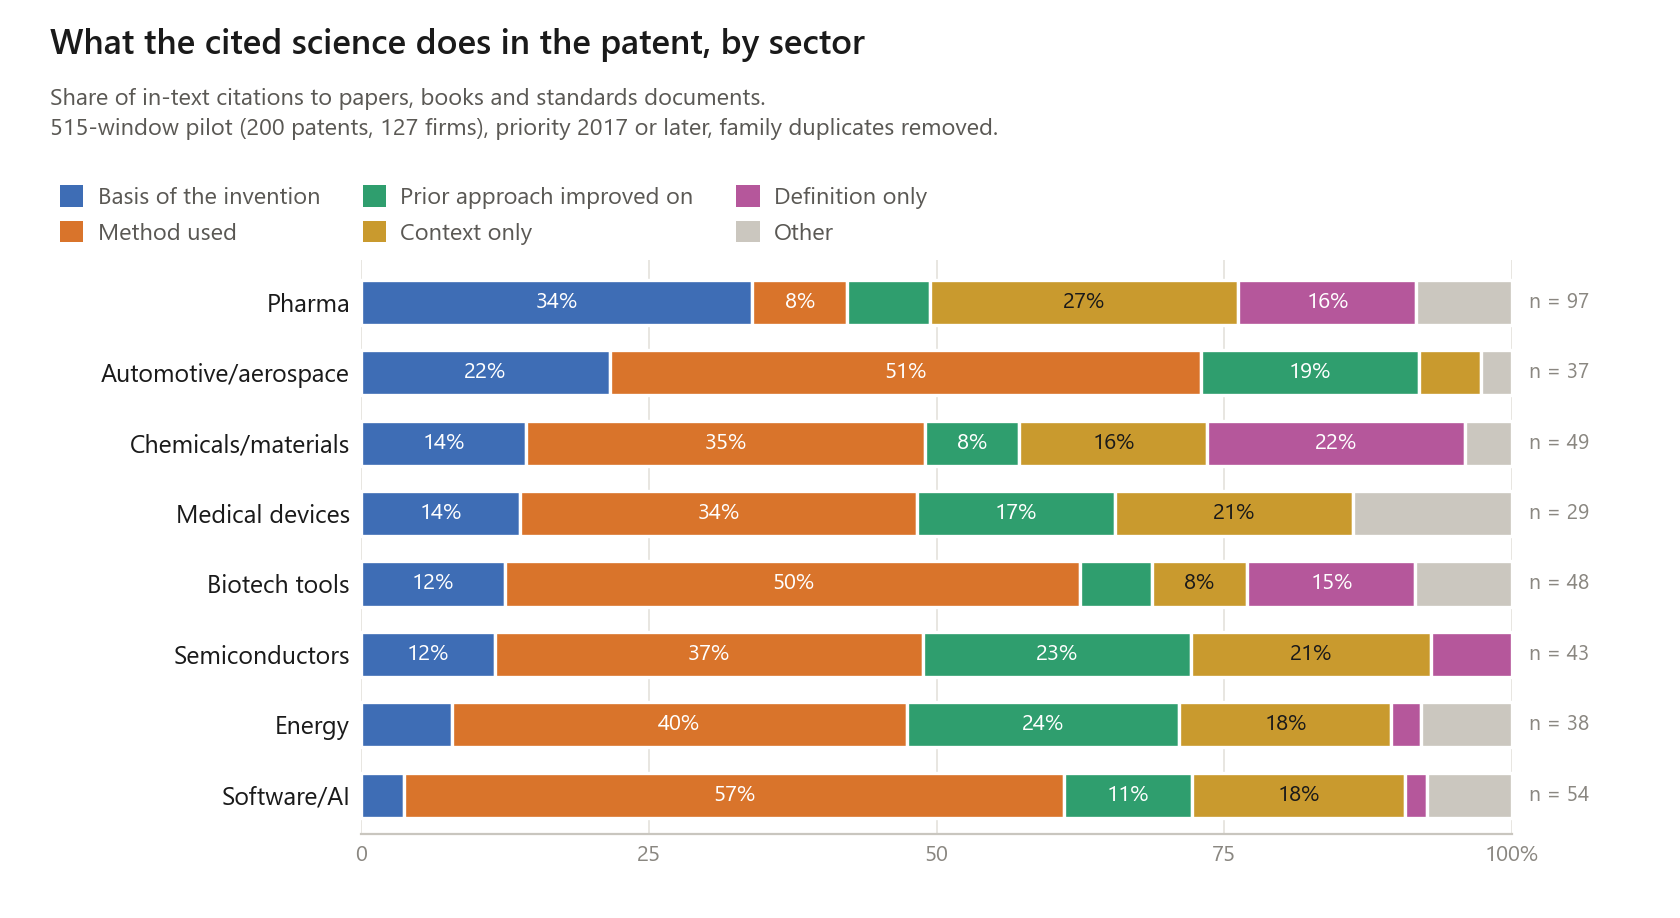
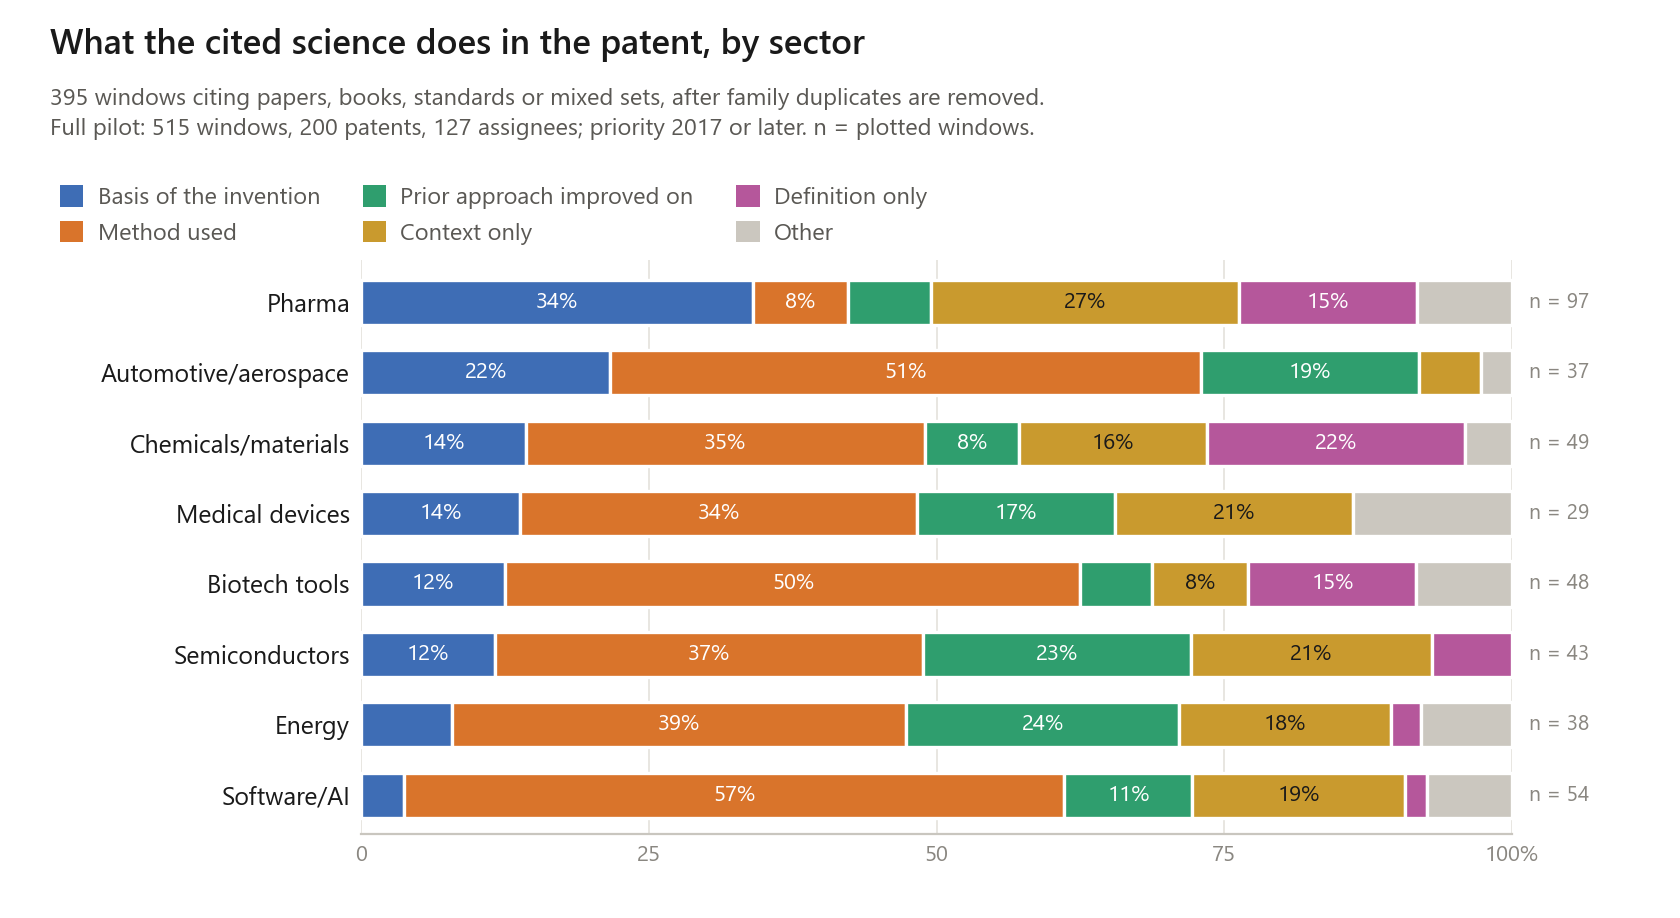
Clarify pilot evidence and correct figure denominators and rounding

diff --git a/scripts/make_figures.py b/scripts/make_figures.py
@@ -5,7 +5,7 @@
 Everything is read from the labeled files and the profiles_*.csv written by aggregate.py, so the figures
 regenerate with the pilots (scripts/rebuild_pilot.sh). One template for all five: horizontal bars in labeled
 groups, counts at the right, title and subtitle at the top left.
-  function_overall.png    what the cited paper does: 163 paper citations in the pilot, all eight labels
+  function_overall.png    what the cited paper does: 316 paper-citing windows in the pilot, all eight labels
   function_by_sector.png  shares by sector, 515-window pilot
   function_by_decade.png  shares by sector and decade, nine firms (pilot/decades/)
   function_by_firm.png    shares by firm, decade sample pooled over decades
@@ -20,7 +20,7 @@ from matplotlib.transforms import blended_transform_factory  # noqa: E402
 
 ROOT = pathlib.Path(__file__).resolve().parent.parent
 sys.path.insert(0, str(ROOT))
-from aggregate import SCIENCE_TYPES, DISPLAY, FUNCS, load_sector_map  # noqa: E402
+from aggregate import SCIENCE_TYPES, DISPLAY, FUNCS, key_of, load_sector_map  # noqa: E402
 OUT = ROOT / "figures"; OUT.mkdir(exist_ok=True)
 PILOT = ROOT / "pilot" / "citation_windows_labeled.jsonl"
 DECADES = ROOT / "pilot" / "decades" / "citation_windows_labeled.jsonl"
@@ -32,7 +32,7 @@ PAL = {"foundation": "#3E6DB5", "method_or_tool": "#D9742B", "prior_art_distingu
        "background_context": "#C99A2E", "definitional_boilerplate": "#B5579B", "other": "#CBC7BF"}
 MAIN = ["foundation", "method_or_tool", "prior_art_distinguished", "background_context", "definitional_boilerplate"]
 CATS = [(f, DISPLAY[f], PAL[f]) for f in MAIN] + [("other", "Other", PAL["other"])]
-DOC_CATS = [("science", "Paper, book or standards document", PAL["foundation"]), ("patent", "Patent", "#8E8A83"),
+DOC_CATS = [("science", "Paper, book, standards or mixed", PAL["foundation"]), ("patent", "Patent", "#8E8A83"),
             ("other", "Other", "#DAD6CF")]
 INK, INK2, MUTED, GRID, BASE = "#1a1a1a", "#5a5854", "#8a8781", "#e8e6e1", "#c9c6bf"
 W = 8.4  # figure width, inches
@@ -49,12 +49,20 @@ def science_rows(path):
 
 
 def read_csv(path):
+    """Keep profile order and metadata; plot exact counts to avoid rounding rounded CSV shares."""
     with open(path, newline="", encoding="utf-8") as f:
         rows = list(csv.DictReader(f))
+    by = path.stem.removeprefix("profiles_")
+    counts = collections.defaultdict(collections.Counter)
+    sector_map = load_sector_map()
+    for row in science_rows(path.parent / "citation_windows_labeled.jsonl"):
+        counts[key_of(row, by, sector_map)][row["function"]] += 1
     out = []
     for r in rows:
-        d = {f: float(r[f"share_{f}"]) for f in MAIN}
-        d["other"] = max(0.0, 1.0 - sum(d.values())); d["n"] = int(float(r["n_windows"])); d["key"] = r
+        c = counts[r[by]]
+        if sum(c.values()) != int(r["n_windows"]):
+            raise ValueError(f"{path}: {r[by]} count differs from the labeled windows; rebuild profiles first")
+        d = shares(c); d["key"] = r
         out.append(d)
     return out
 
@@ -141,8 +149,8 @@ def figure_overall():
     c = collections.Counter(r["function"] for r in rows); n = len(rows)
     groups = [(None, [(DISPLAY[f], {"f": f, "v": c[f] / n, "c": c[f]}) for f in FUNCS])]
     fig, ax = canvas(groups, "What the cited paper does in the patent",
-                     f"{n} in-text citations to papers in 200 patents from 127 firms, priority 2017 or later, family duplicates removed.\n"
-                     "The last three labels are not uses of science; the other figures fold them into \"Other\".")
+                     f"{n} paper-citing windows after deduplication; full pilot: 200 patents, 127 assignees, priority 2017 or later.\n"
+                     "Other in the stacked charts combines materials/data sources, reference-list entries and own earlier patents.")
     for y, (_, r) in enumerate(groups[0][1]):
         ax.barh(y, r["v"], height=0.64, color=PAL.get(r["f"], PAL["other"]))
         ax.text(r["v"] + 0.007, y, f"{r['v']:.0%}   {r['c']} of {n}", va="center", ha="left", fontsize=8, color=INK2)
@@ -156,8 +164,8 @@ def figure_sector():
     rows.sort(key=lambda r: -r["foundation"])
     groups = [(None, [(cap(r["key"]["sector"]), r) for r in rows])]
     fig, ax = canvas(groups, "What the cited science does in the patent, by sector",
-                     "Share of in-text citations to papers, books and standards documents.\n"
-                     "515-window pilot (200 patents, 127 firms), priority 2017 or later, family duplicates removed.", legend=CATS)
+                     "395 windows citing papers, books, standards or mixed sets, after family duplicates are removed.\n"
+                     "Full pilot: 515 windows, 200 patents, 127 assignees; priority 2017 or later. n = plotted windows.", legend=CATS)
     draw_rows(ax, groups, CATS)
     fig.savefig(OUT / "function_by_sector.png", dpi=200); plt.close(fig)
 
@@ -168,7 +176,7 @@ def figure_decade():
     groups = [(h, [(d, rows[f"{s} {d}"]) for d in ("1980s", "1990s", "2000s", "2010s") if f"{s} {d}" in rows]) for h, s in sectors]
     fig, ax = canvas(groups, "The same shares by decade: nine firms, 1980s to 2010s",
                      "Pfizer, Eli Lilly, Bristol-Myers  |  Dow Chemical, Du Pont, Air Products  |  IBM, General Electric, Texas Instruments.\n"
-                     "Two patents per firm and decade with priority and grant in the decade (electronics: four, from two draws).\n"
+                     "Up to two patents per firm and decade with priority and grant in the decade (electronics: up to four, two draws).\n"
                      "n = science-citing windows, family duplicates removed.", legend=CATS, sub_lines=3)
     draw_rows(ax, groups, CATS)
     fig.savefig(OUT / "function_by_decade.png", dpi=200); plt.close(fig)

diff --git a/README.md b/README.md
@@ -29,7 +29,7 @@ One question per citation: **what does the invention take from the cited paper?*
 flowchart TD
     W["Citation window"] --> T{"What is cited?"}
     T -->|"a patent, or the applicant's own application"| X["Not science use<br/>kept, excluded from profiles"]
-    T -->|"a paper, book or standards document"| F{"What does the invention take from it?"}
+    T -->|"a paper, book, standards document or mixed set"| F{"What does the invention take from it?"}
     F -->|"the finding it rests on"| A["Basis of the invention"]
     F -->|"a technique it uses"| B["Method used"]
     F -->|"an earlier approach it improves on"| C["Prior approach improved on"]
@@ -64,14 +64,17 @@ rests on, context alone, and prior approaches improved on each take between one 
 
 ![Function by sector](figures/function_by_sector.png)
 
-Industries use science for different things. Pharma cites papers for the biology the invention rests on and for
+In this purposive pilot, sectors differ in the stated roles of cited science. Pharma cites science for the biology the invention rests on and for
 disease context; software/AI, biotech tools and automotive firms for methods; semiconductors and energy have the
-largest shares of prior approaches improved on; chemicals and biotech tools carry the most definition-only citations.
+largest shares of prior approaches improved on; chemicals have the highest definition-only share, followed by pharma and biotech tools.
+These sector profiles use 395 deduplicated science-citing windows (papers, books, standards and mixed sets);
+the overall figure above uses only the 316 paper-citing windows.
 
 ![Function by decade](figures/function_by_decade.png)
 
-Pharma's use of science changed: methods in the 1980s, the target biology (and antibody definitions copied across
-patents) in the 2010s. Chemicals stayed centered on prior approaches they improve on. Electronics firms cite
+In the sampled pharma patents, methods were the largest category in the 1980s; target biology and antibody
+definitions tied in the 2010s (44% each). Prior approaches remained important in chemicals, but were not the
+largest category in every decade. Electronics firms cite
 standards documents and conference papers, mostly as methods used and prior approaches improved on, in every decade.
 
 ![Function by firm](figures/function_by_firm.png)
@@ -82,7 +85,7 @@ as methods where IBM improves on them.
 
 ![What the citation window points to](figures/what_is_cited.png)
 
-"et al." does not mean a paper: in electronics, a third of the citation windows point to other patents even after
+"et al." does not mean a paper: in the decade sample's electronics sector, 36% of the citation windows point to other patents even after
 a second draw aimed at papers (69% in the first draw). The document-type label keeps those out of the profiles
 instead of counting them as science.
 
@@ -110,7 +113,7 @@ and `common/validate.py agreement` compares two label files (accuracy, Cohen's k
 <details>
 <summary><b>Data and layout</b></summary>
 
-| Sample | Patents | Firms | Windows | Science-citing, de-duplicated | Files |
+| Sample | Patents | Assignees / target firms | Windows | Science-citing, de-duplicated | Files |
 | --- | --- | --- | --- | --- | --- |
 | Pilot, eight sectors, priority 2017+ | 200 | 127 | 515 | 395 | `pilot/` |
 | Decade sample, three sectors, 1980s to 2010s | 94 | 9 | 261 | 200 | `pilot/decades/` |
@@ -154,8 +157,11 @@ scripts/make_figures.py     the five README figures
   printed assignee, the first pilot kept corporate fuzzy matches under the printed name (`pilot/README_pilot_method.md`).
 - **Windows.** The regex cue finder accepts noise by design; in the full build the window finder starts from the
   Reliance on Science in-text citations, and a lightweight classifier replaces the regex.
+- **Unit and identifiers.** A pilot observation is a citation window and can contain several cited works.
+  The provisional `cited_work_string` has not been validated against a specific cited work or linked to RoS/OpenAlex;
+  occurrence-level citation alignment and the firm crosswalks remain work for the full build.
 - **Cell sizes.** Sector, decade and firm cells are small (counts printed next to every share); the figures show
-  that the measure separates industries and moves over time, not by how much.
+  possible differences in stated citation roles within these samples; they do not establish population trends.
 
 </details>
 

diff --git a/docs/firm_linkage.md b/docs/firm_linkage.md
@@ -44,12 +44,14 @@ pre-1976 windows before extending the series, and to report OCR-related recall b
 
 ## What the pilot already shows at this level
 
-`aggregate.py --by sector` on the pilot (109 patents, 2020–2026 grants, corporate assignees; sectors assigned
-by hand from the assignee) gives the shape of the released table: pharma uses science as *foundation* (35%)
-and *background* (34%) and is the least substantive sector (50%); software/AI and chemicals cite *methods*
-(50% each); semiconductors cite *prior art distinguished* (38%); automotive/aerospace and medical devices are
-the most substantive (94%, 92%) with small n. Output: `pilot/profiles_sector.csv`, `pilot/profiles_assignee.csv`,
-`pilot/profiles_year.csv`. Shares are reported with the window and patent counts so that small cells are visible.
+`aggregate.py --by sector` on the pilot (200 patents, 127 printed assignees, priority 2017+; sectors assigned
+by hand from the assignee) gives the shape of the planned table. The 515 raw windows become 490 after
+deduplication; sector profiles use the 395 windows citing papers, books, standards documents or mixed sets.
+Pharma cites science as the basis of the invention (34%) and as context (27%); software/AI, biotech tools and
+automotive/aerospace cite methods (57%, 50%, 51%); semiconductors and energy cite prior approaches improved on
+(23%, 24%). These are descriptive patterns in a purposive sample, not population estimates or validated firm
+linkages. Output: `pilot/profiles_sector.csv`, `pilot/profiles_assignee.csv`, `pilot/profiles_year.csv`.
+Shares are reported with window and patent counts so that small cells are visible.
 
 ## Known pitfalls
 
